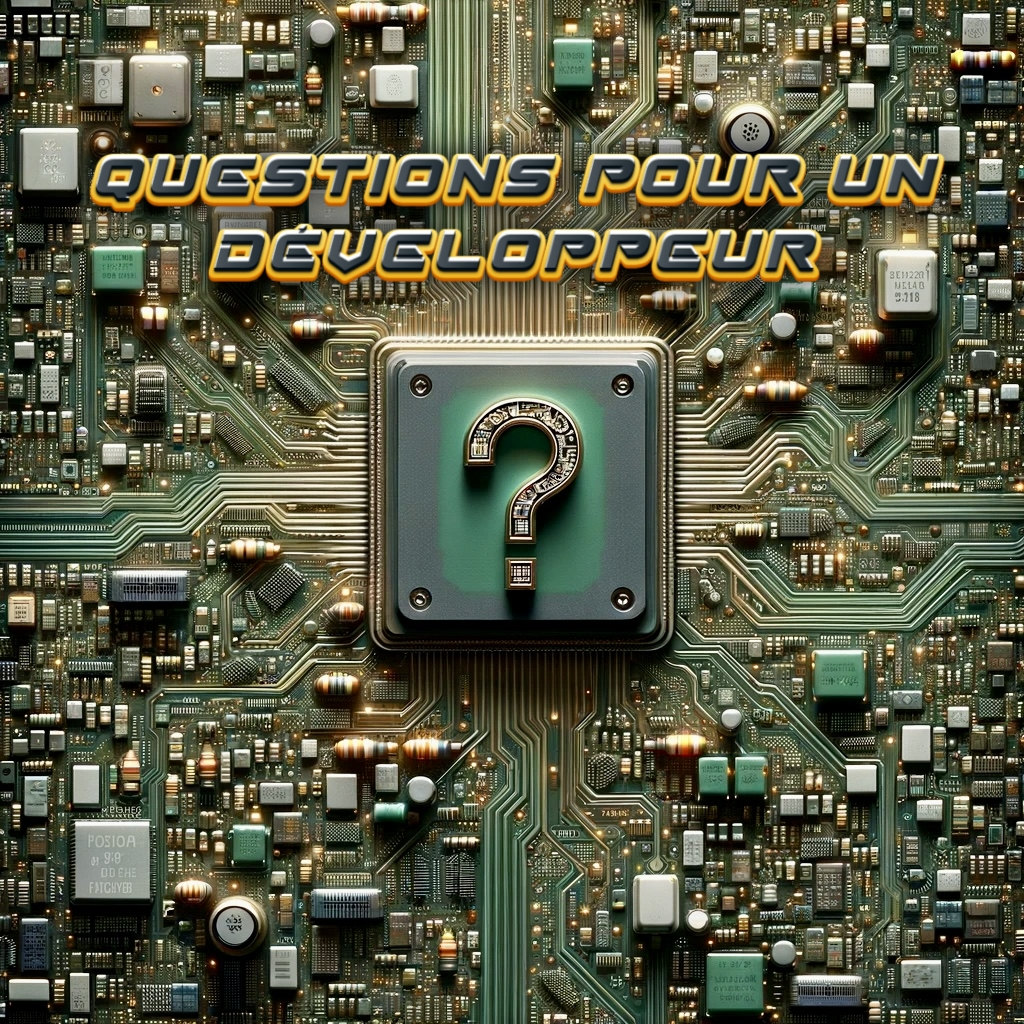
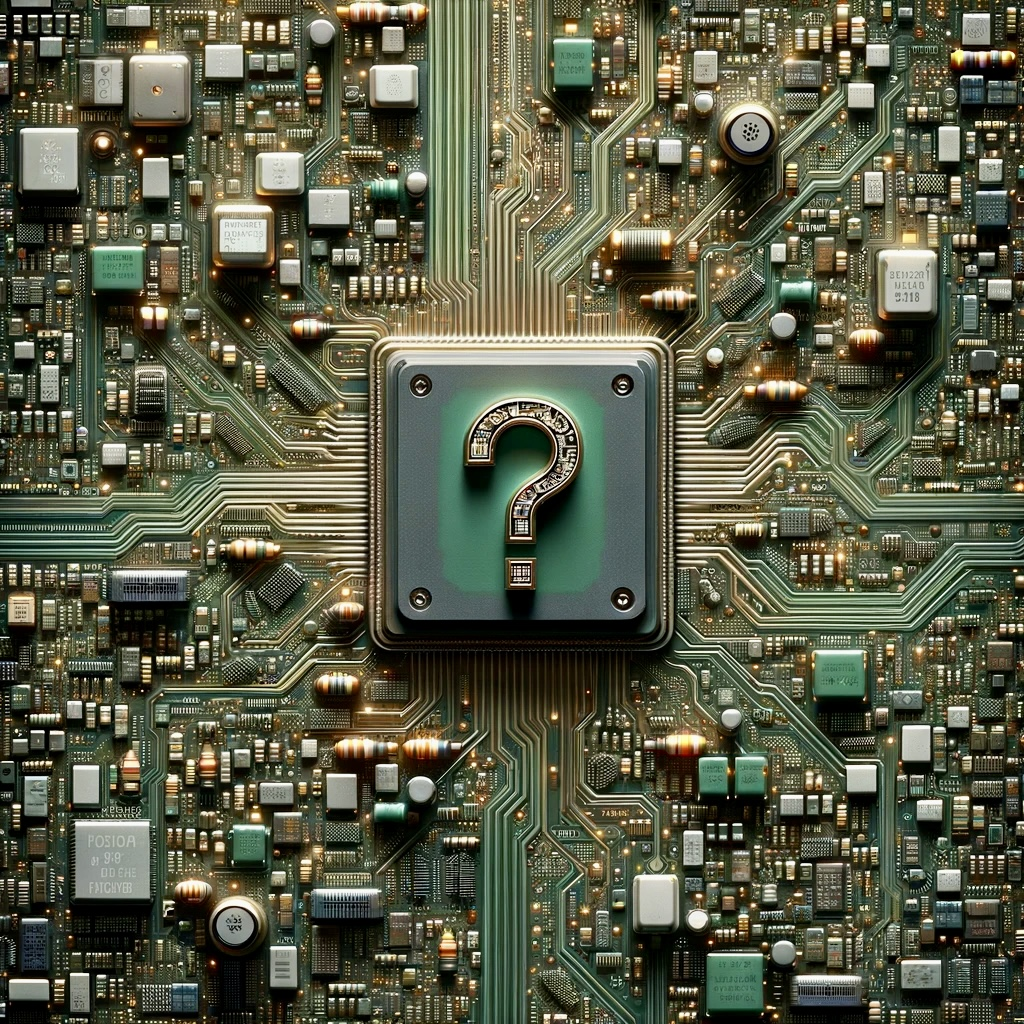
wip

Changed region(s): [[0.0625, 0.125, 0.9375, 0.3125]]

diff --git a/front/src/App.svelte b/front/src/App.svelte
@@ -1,92 +1,74 @@
 <!-- Svelte script pour la navigation -->
 <script lang="ts">
+  import Head3d from "./lib/components/ui/typo/heading/Head3d.svelte";
   let url = "";
   const navigate = (path: string) => (url = path); // Cette fonction modifie la variable 'url' en fonction du chemin passé
 </script>
 
-<div class="background">
-  <!-- Div pour le fond de la page -->
+<div class="app-container">
+  <div class="background"></div>
 
-  >
+  <div id="question">
+
+    <Head3d>Question pour un développeur</Head3d>
+
+  </div>
+
   <div>
-    <button class="buttonStart" on:click={() => navigate("/start")}></button>
+    <button class="buttonStart" on:click={() => navigate("/start")}>Start</button>
     <!-- Bouton START qui appelle la fonction navigate avec le chemin "/start" -->
   </div>
 
-  >
   <div>
     <button class="buttonLogin" on:click={() => navigate("/starLogin")}
-    ></button>
+    >signin</button>
     <!-- Bouton START qui appelle la fonction navigate avec le chemin "/start" -->
   </div>
 
-  >
   <div>
     <button class="buttonSignin" on:click={() => navigate("/startSignin")}
-    ></button>
-    <!-- Bouton START qui appelle la fonction navigate avec le chemin "/start" -->
+    >signup</button>
   </div>
 </div>
 
 <!-- Styles CSS pour les éléments HTML -->
 <style>
+
+#question {
+  text-align: center;
+  width: 400px;
+  height: 200px;
+  margin: 0;
+  padding: 0;
+}
+
+  .app-container {
+    display: flex; /* Affichage en ligne */
+    flex-direction: column; /* Direction de la ligne */
+    justify-content: center; /* Centrage horizontal */
+    align-items: center; /* Centrage vertical */
+    min-height: 100vh; /* Hauteur de l'élément */
+    min-width: 100vw; /* Largeur de l'élément */
+  }
+  /*h1 {
+    color: rgb(255, 136, 0);
+    font-size: 3rem;
+    text-align: center;
+    font-weight: bold;
+    margin-bottom: 2rem;
+  }*/
   .background {
-    /* Style pour le fond de la page */
-    position: absolute; /* Positionnement absolu */
-    top: 0; /* Haut de la page */
-    left: 0; /* Gauche de la page */
-    width: 60%; /* Largeur totale */
-    height: 100%; /* Hauteur totale */
+    position: fixed;
+    top: 0;
+    right: 0 ;
+    left: 0;
+    bottom: 0;
+    z-index: -1;
+
     background-image: url("./lib/homepage.jpg"); /* Image de fond */
-    background-position: center; /* Positionnement de l'image de fond */
+    background-position: center; 
+    background-size: absolute; 
+    background-repeat: no-repeat;
   }
 
-  .buttonStart {
-    background-image: url("./lib/start.png"); /* Image de fond */
-    background-color: transparent; /* Couleur de fond transparente */
-    width: 250px; /* Largeur */
-    height: 100px; /* Hauteur */
-    background-size: cover; /* Taille de l'image de fond */
-    border: none; /* Pas de bordure */
-    cursor: pointer; /* Curseur de souris */
-    display: flex; /* Affichage en ligne */
-    transform: translateX(400px) translateY(561px); /* Positionnement du bouton */
-    justify-content: center; /* Centrage horizontal */
-    align-items: center; /* Centrage vertical */
-  }
-  .buttonStart:hover {
-    transform: translateX(400px) translateY(561px) scale(1.2); /* Positionnement du bouton */
-  }
-  .buttonLogin {
-    background-image: url("./lib/login.png"); /* Image de fond */
-    background-color: transparent; /* Couleur de fond transparente */
-    width: 250px; /* Largeur */
-    height: 100px; /* Hauteur */
-    background-size: cover; /* Taille de l'image de fond */
-    border: none; /* Pas de bordure */
-    cursor: pointer; /* Curseur de souris */
-    display: flex; /* Affichage en ligne */
-    transform: translateX(200px) translateY(561px); /* Positionnement du bouton */
-    justify-content: center; /* Centrage horizontal */
-    align-items: center; /* Centrage vertical */
-  }
-  .buttonLogin:hover {
-    transform: translateX(200px) translateY(561px) scale(1.2); /* Positionnement du bouton */
-  }
-  .buttonSignin {
-    background-image: url("./lib/signin.png"); /* Image de fond */
-    background-color: transparent; /* Couleur de fond transparente */
-    width: 250px; /* Largeur */
-    height: 100px; /* Hauteur */
-    background-size: cover; /* Taille de l'image de fond */
-    border: none; /* Pas de bordure */
-    cursor: pointer; /* Curseur de souris */
-    display: flex; /* Affichage en ligne */
-    transform: translateX(600px) translateY(448px); /* Positionnement du bouton */
-    justify-content: center; /* Centrage horizontal */
-    align-items: center; /* Centrage vertical */
-  }
-  .buttonSignin:hover {
-    transform: translateX(600px) translateY(448px) scale(1.2); /* Positionnement du bouton */
-  }
 </style>

diff --git a/front/src/lib/components/ui/typo/heading/Head3d.svelte b/front/src/lib/components/ui/typo/heading/Head3d.svelte
@@ -1,0 +1,127 @@
+<script lang="ts">
+
+import { onMount, onDestroy } from 'svelte';
+
+  let offsetX = 0;
+  let offsetY = 0;
+  const friction = 1 / 32;
+
+  function mouseMove(e) {
+    let followX = (window.innerWidth / 2 - e.clientX);
+    let followY = (window.innerHeight / 2 - e.clientY);
+
+    let x = 0, y = 0;
+    x += (-followX - x) * friction;
+    y += (followY - y) * friction;
+
+    offsetX = x;
+    offsetY = y;
+  }
+
+  onMount(() => {
+    document.addEventListener('mousemove', mouseMove);
+  });
+
+  onDestroy(() => {
+    document.removeEventListener('mousemove', mouseMove);
+  });
+</script>
+
+<figure style:transform="perspective(600px) rotateY({offsetX}deg) rotateX({offsetY}deg)">
+    <p><slot /><p/>
+    <p><slot /><p/><p>
+    <slot /><p/><p>
+    <slot /><p/><p>
+    <slot /><p/>
+  </figure>
+  
+  <style>
+    @import url(https://fonts.googleapis.com/css?family=Concert+One);
+  
+    p {
+      animation: glow 10s ease-in-out infinite;
+    }
+  
+    figure {
+        /*position: relative; /* Positionnement relatif */
+      transform-origin: center center;
+      transform-style: preserve-3d;
+    }
+  
+    @keyframes wobble {
+      0%,
+      100% {
+        transform: rotate3d(1, 1, 0, 40deg);
+      }
+      25% {
+        transform: rotate3d(-1, 1, 0, 40deg);
+      }
+      50% {
+        transform: rotate3d(-1, -1, 0, 40deg);
+      }
+      75% {
+        transform: rotate3d(1, -1, 0, 40deg);
+      }
+    }
+  
+    p {
+      display: flex;
+      width: 100%;
+      height: 100%;
+      /*line-height: 1.5;
+      /*font:*/
+      font-size: 3em;
+      font-family: "Concert One";
+        /*20 8em "Concert One",
+        sans-serif;*/
+      text-transform: uppercase;
+      position: absolute;
+      color: #0a0a0a;
+      
+    }
+  
+    @keyframes glow {
+      0%,
+      100% {
+        text-shadow: 0 0 30px red;
+      }
+      25% {
+        text-shadow: 0 0 30px orange;
+      }
+      50% {
+        text-shadow: 0 0 30px forestgreen;
+      }
+      75% {
+        text-shadow: 0 0 30px cyan;
+      }
+    }
+  
+    h1:nth-child(2) {
+      transform: translateZ(5px);
+    }
+    h1:nth-child(3) {
+      transform: translateZ(10px);
+    }
+    h1:nth-child(4) {
+      transform: translateZ(15px);
+    }
+    h1:nth-child(5) {
+      transform: translateZ(20px);
+    }
+    h1:nth-child(6) {
+      transform: translateZ(25px);
+    }
+    h1:nth-child(7) {
+      transform: translateZ(30px);
+    }
+    h1:nth-child(8) {
+      transform: translateZ(35px);
+    }
+    h1:nth-child(9) {
+      transform: translateZ(40px);
+    }
+    h1:nth-child(10) {
+      transform: translateZ(45px);
+    }
+  </style>
+  

diff --git a/front/src/app.css b/front/src/app.css
@@ -2,78 +2,48 @@
   font-family: Inter, system-ui, Avenir, Helvetica, Arial, sans-serif;
   line-height: 1.5;
   font-weight: 400;
-
-  color-scheme: light dark;
-  color: rgba(255, 255, 255, 0.87);
-  background-color: #242424;
-
-  font-synthesis: none;
-  text-rendering: optimizeLegibility;
-  -webkit-font-smoothing: antialiased;
-  -moz-osx-font-smoothing: grayscale;
 }
 
-a {
-  font-weight: 500;
-  color: #646cff;
-  text-decoration: inherit;
+html, body, div, span, applet, object, iframe,
+h1, h2, h3, h4, h5, h6, p, blockquote, pre,
+a, abbr, acronym, address, big, cite, code,
+del, dfn, em, img, ins, kbd, q, s, samp,
+small, strike, strong, sub, sup, tt, var,
+b, u, i, center,
+dl, dt, dd, ol, ul, li,
+fieldset, form, label, legend,
+table, caption, tbody, tfoot, thead, tr, th, td,
+article, aside, canvas, details, embed, 
+figure, figcaption, footer, header, hgroup, 
+menu, nav, output, ruby, section, summary,
+time, mark, audio, video {
+	margin: 0;
+	padding: 0;
+	border: 0;
+	font-size: 100%;
+	font: inherit;
+	vertical-align: baseline;
 }
-a:hover {
-  color: #535bf2;
+/* HTML5 display-role reset for older browsers */
+article, aside, details, figcaption, figure, 
+footer, header, hgroup, menu, nav, section {
+	display: block;
 }
-
 body {
-  margin: 0;
-  display: flex;
-  place-items: center;
-  min-width: 320px;
-  min-height: 100vh;
+	line-height: 1;
 }
-
-h1 {
-  font-size: 3.2em;
-  line-height: 1.1;
+ol, ul {
+	list-style: none;
 }
-
-.card {
-  padding: 2em;
+blockquote, q {
+	quotes: none;
 }
-
-#app {
-  max-width: 1280px;
-  margin: 0 auto;
-  padding: 2rem;
-  text-align: center;
+blockquote:before, blockquote:after,
+q:before, q:after {
+	content: '';
+	content: none;
 }
-
-button {
-  border-radius: 8px;
-  border: 1px solid transparent;
-  padding: 0.6em 1.2em;
-  font-size: 1em;
-  font-weight: 500;
-  font-family: inherit;
-  background-color: #1a1a1a;
-  cursor: pointer;
-  transition: border-color 0.25s;
-}
-button:hover {
-  border-color: #646cff;
-}
-button:focus,
-button:focus-visible {
-  outline: 4px auto -webkit-focus-ring-color;
-}
-
-@media (prefers-color-scheme: light) {
-  :root {
-    color: #213547;
-    background-color: #ffffff;
-  }
-  a:hover {
-    color: #747bff;
-  }
-  button {
-    background-color: #f9f9f9;
-  }
+table {
+	border-collapse: collapse;
+	border-spacing: 0;
 }
